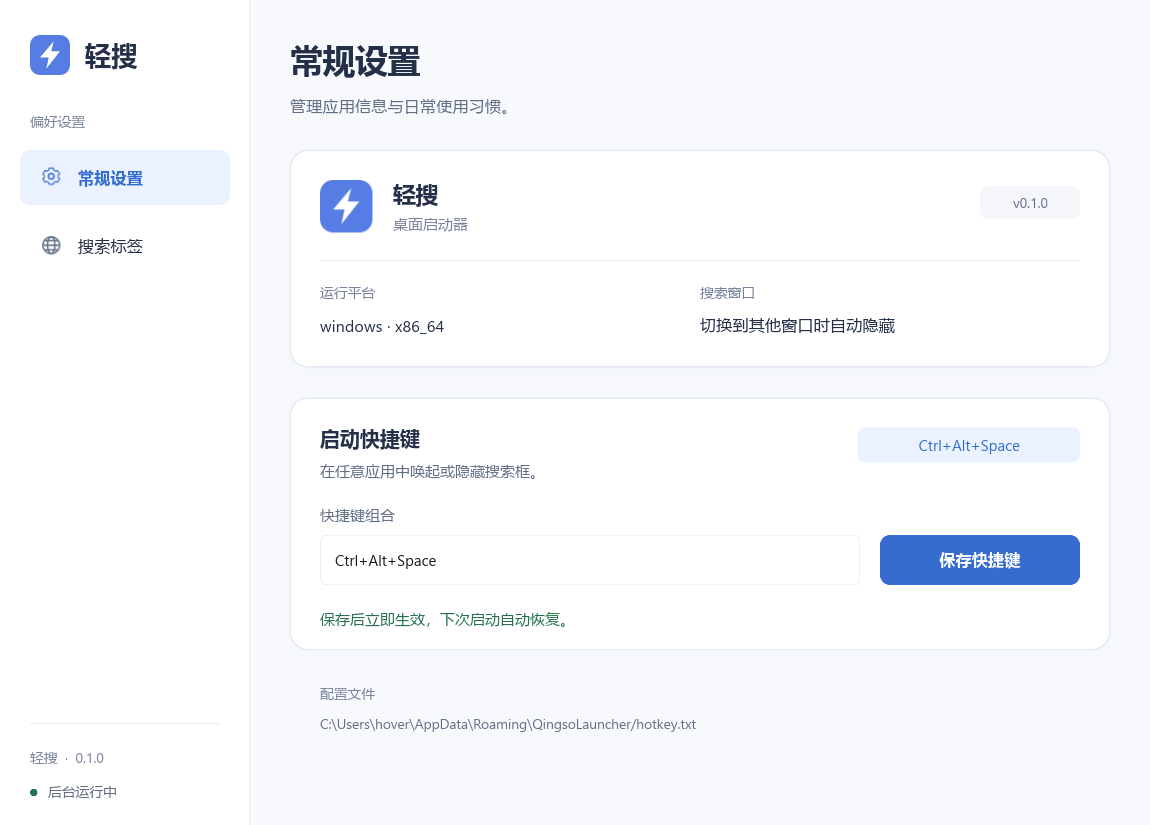
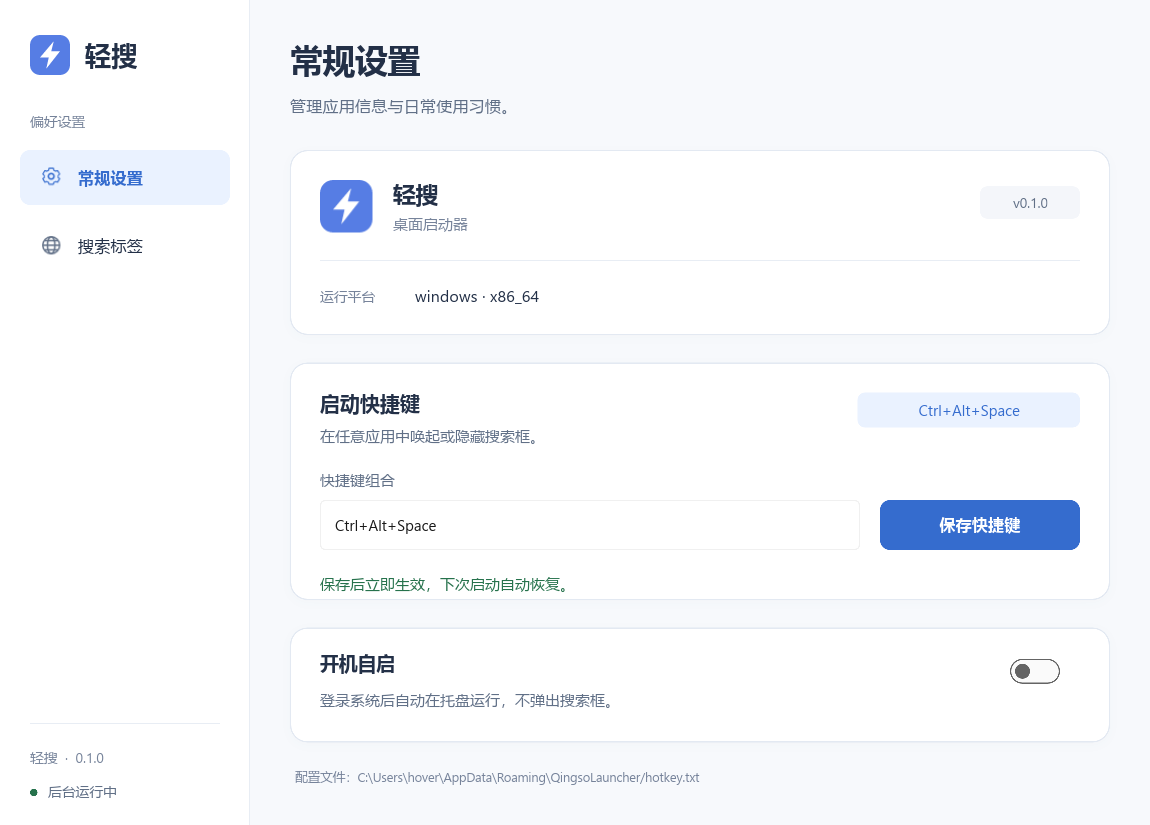
feat: 新增开机自启开关并默认使用软件渲染降低内存占用
- 新增 autostart 模块，Windows 通过 HKCU Run 注册表、macOS 通过 LaunchAgents plist 实现登录自启
- 设置页常规设置新增"开机自启"开关，支持状态读取、启用/禁用及错误恢复
- 主程序识别 --autostart 参数，登录启动时仅创建托盘不显示搜索框，重复登录启动直接退出
- 默认渲染器改为 software，避免初始化 GPU 驱动上下文，私有提交内存从约 210 MiB 降至约 39 MiB
- 支持 QINGSO_RENDERER 环境变量显式选择渲染器，同时尊重 SLINT_BACKEND 原生配置
- 新增开机自启和低内存渲染设计文档，更新 README 使用说明及界面截图

diff --git a/src/autostart.rs b/src/autostart.rs
@@ -1,0 +1,185 @@
+use std::{io, path::Path};
+
+pub fn is_enabled() -> io::Result<bool> {
+    platform::is_enabled()
+}
+pub fn set_enabled(enabled: bool) -> io::Result<()> {
+    platform::set_enabled(enabled, &std::env::current_exe()?)
+}
+
+#[cfg(any(windows, test))]
+fn windows_command(path: &str) -> io::Result<String> {
+    if path.contains(['"', '\0', '\n', '\r']) {
+        return Err(io::Error::other("程序路径包含无效字符"));
+    }
+    let command = format!("\"{path}\" --autostart");
+    if command.encode_utf16().count() > 260 {
+        return Err(io::Error::other("程序路径过长，无法注册登录自启"));
+    }
+    Ok(command)
+}
+
+#[cfg(any(target_os = "macos", test))]
+fn launch_agent(path: &str) -> String {
+    let escaped = path
+        .replace('&', "&amp;")
+        .replace('<', "&lt;")
+        .replace('>', "&gt;")
+        .replace('"', "&quot;")
+        .replace('\'', "&apos;");
+    format!(
+        "<?xml version=\"1.0\" encoding=\"UTF-8\"?>\n<!DOCTYPE plist PUBLIC \"-//Apple//DTD PLIST 1.0//EN\" \"http://www.apple.com/DTDs/PropertyList-1.0.dtd\">\n<plist version=\"1.0\"><dict>\n<key>Label</key><string>net.qingso.launcher</string>\n<key>ProgramArguments</key><array><string>{escaped}</string><string>--autostart</string></array>\n<key>RunAtLoad</key><true/>\n<key>LimitLoadToSessionType</key><string>Aqua</string>\n</dict></plist>\n"
+    )
+}
+
+#[cfg(windows)]
+mod platform {
+    use super::*;
+    use winreg::{
+        RegKey,
+        enums::{HKEY_CURRENT_USER, KEY_READ, KEY_WRITE},
+    };
+    const KEY: &str = r"Software\Microsoft\Windows\CurrentVersion\Run";
+    const VALUE: &str = "QingsoLauncher";
+
+    pub fn is_enabled() -> io::Result<bool> {
+        read(KEY)
+    }
+    pub fn set_enabled(enabled: bool, exe: &Path) -> io::Result<()> {
+        write(KEY, enabled, exe)
+    }
+
+    fn read(path: &str) -> io::Result<bool> {
+        let key = match RegKey::predef(HKEY_CURRENT_USER).open_subkey_with_flags(path, KEY_READ) {
+            Ok(key) => key,
+            Err(error) if error.kind() == io::ErrorKind::NotFound => return Ok(false),
+            Err(error) => return Err(error),
+        };
+        match key.get_value::<String, _>(VALUE) {
+            Ok(command) => Ok(!command.trim().is_empty()),
+            Err(error) if error.kind() == io::ErrorKind::NotFound => Ok(false),
+            Err(error) => Err(error),
+        }
+    }
+
+    fn write(path: &str, enabled: bool, exe: &Path) -> io::Result<()> {
+        let user = RegKey::predef(HKEY_CURRENT_USER);
+        if enabled {
+            let command = windows_command(
+                exe.to_str()
+                    .ok_or_else(|| io::Error::other("程序路径无法编码"))?,
+            )?;
+            let (key, _) = user.create_subkey_with_flags(path, KEY_WRITE)?;
+            key.set_value(VALUE, &command)
+        } else {
+            let key = match user.open_subkey_with_flags(path, KEY_WRITE) {
+                Ok(key) => key,
+                Err(error) if error.kind() == io::ErrorKind::NotFound => return Ok(()),
+                Err(error) => return Err(error),
+            };
+            match key.delete_value(VALUE) {
+                Ok(()) => Ok(()),
+                Err(error) if error.kind() == io::ErrorKind::NotFound => Ok(()),
+                Err(error) => Err(error),
+            }
+        }
+    }
+
+    #[cfg(test)]
+    mod tests {
+        use super::*;
+        #[test]
+        fn isolated_registry_round_trip() {
+            let path = format!(r"Software\QingsoAutostartTest-{}", std::process::id());
+            // Exercise real registry IO without touching the user's Run key.
+            assert!(!read(&path).unwrap());
+            write(
+                &path,
+                true,
+                Path::new(r"C:\Program Files\轻搜\qingso-launcher.exe"),
+            )
+            .unwrap();
+            assert!(read(&path).unwrap());
+            let key = RegKey::predef(HKEY_CURRENT_USER)
+                .open_subkey(&path)
+                .unwrap();
+            assert_eq!(
+                key.get_value::<String, _>(VALUE).unwrap(),
+                "\"C:\\Program Files\\轻搜\\qingso-launcher.exe\" --autostart"
+            );
+            drop(key);
+            write(&path, false, Path::new("unused")).unwrap();
+            assert!(!read(&path).unwrap());
+            write(&path, false, Path::new("unused")).unwrap();
+            RegKey::predef(HKEY_CURRENT_USER)
+                .delete_subkey(&path)
+                .unwrap();
+        }
+    }
+}
+
+#[cfg(target_os = "macos")]
+mod platform {
+    use super::*;
+    fn path() -> io::Result<std::path::PathBuf> {
+        Ok(std::path::PathBuf::from(
+            std::env::var_os("HOME").ok_or_else(|| io::Error::other("HOME is unavailable"))?,
+        )
+        .join("Library/LaunchAgents/net.qingso.launcher.plist"))
+    }
+    pub fn is_enabled() -> io::Result<bool> {
+        match std::fs::metadata(path()?) {
+            Ok(metadata) => Ok(metadata.is_file()),
+            Err(error) if error.kind() == io::ErrorKind::NotFound => Ok(false),
+            Err(error) => Err(error),
+        }
+    }
+    pub fn set_enabled(enabled: bool, exe: &Path) -> io::Result<()> {
+        let path = path()?;
+        if enabled {
+            let data = launch_agent(
+                exe.to_str()
+                    .ok_or_else(|| io::Error::other("程序路径无法编码"))?,
+            );
+            crate::config::write_atomic(&path, data.as_bytes())
+        } else {
+            match std::fs::remove_file(path) {
+                Ok(()) => Ok(()),
+                Err(error) if error.kind() == io::ErrorKind::NotFound => Ok(()),
+                Err(error) => Err(error),
+            }
+        }
+    }
+}
+
+#[cfg(not(any(windows, target_os = "macos")))]
+mod platform {
+    use super::*;
+    pub fn is_enabled() -> io::Result<bool> {
+        Err(io::Error::new(
+            io::ErrorKind::Unsupported,
+            "当前系统暂不支持开机自启",
+        ))
+    }
+    pub fn set_enabled(_: bool, _: &Path) -> io::Result<()> {
+        is_enabled().map(|_| ())
+    }
+}
+
+#[cfg(test)]
+mod tests {
+    use super::*;
+    #[test]
+    fn paths_with_spaces_unicode_and_xml_characters_are_preserved() {
+        assert_eq!(
+            windows_command(r"C:\轻搜 文件夹\qingso.exe").unwrap(),
+            "\"C:\\轻搜 文件夹\\qingso.exe\" --autostart"
+        );
+        assert!(windows_command("bad\"path").is_err());
+        assert!(windows_command(&"x".repeat(261)).is_err());
+        let plist = launch_agent("/Users/test/轻搜 & Tools/launcher");
+        assert!(plist.contains("轻搜 &amp; Tools"));
+        assert!(plist.contains("<string>--autostart</string>"));
+        assert!(plist.contains("<key>RunAtLoad</key><true/>"));
+    }
+}

diff --git a/src/settings.rs b/src/settings.rs
@@ -17,6 +17,39 @@ pub fn create(
     settings.set_config_path(config::path()?.to_string_lossy().into_owned().into());
     settings.set_current_hotkey(registration.borrow().shortcut.clone().into());
     settings.set_edited_hotkey(registration.borrow().shortcut.clone().into());
+    match crate::autostart::is_enabled() {
+        Ok(enabled) => settings.set_autostart_enabled(enabled),
+        Err(error) => {
+            settings.set_autostart_available(false);
+            settings.set_autostart_status(format!("无法读取自启状态：{error}").into());
+            settings.set_autostart_error(true);
+        }
+    }
+    let weak = settings.as_weak();
+    settings.on_set_autostart(move |enabled| {
+        let Some(settings) = weak.upgrade() else {
+            return;
+        };
+        match crate::autostart::set_enabled(enabled) {
+            Ok(()) => {
+                settings.set_autostart_enabled(enabled);
+                settings.set_autostart_error(false);
+                settings.set_autostart_status(
+                    if enabled {
+                        "已开启，下次登录系统后在托盘运行。"
+                    } else {
+                        "已关闭开机自启。"
+                    }
+                    .into(),
+                );
+            }
+            Err(error) => {
+                settings.set_autostart_enabled(crate::autostart::is_enabled().unwrap_or(!enabled));
+                settings.set_autostart_error(true);
+                settings.set_autostart_status(format!("设置失败：{error}").into());
+            }
+        }
+    });
     let weak_settings = settings.as_weak();
     let weak_search = ui.as_weak();
     settings.on_save_shortcut(move |value| {

diff --git a/src/launcher.rs b/src/launcher.rs
@@ -10,7 +10,7 @@ thread_local! {
 }
 
 pub fn configure_backend() -> Result<(), slint::PlatformError> {
-    let backend = slint::BackendSelector::new()
+    let mut backend = slint::BackendSelector::new()
         .backend_name("winit".into())
         .with_winit_window_attributes_hook(|attributes| {
             let attributes = attributes.with_theme(Some(winit::window::Theme::Light));
@@ -24,6 +24,13 @@ pub fn configure_backend() -> Result<(), slint::PlatformError> {
                 attributes
             }
         });
+    // This launcher is mostly static UI: software avoids initializing GPU
+    // driver contexts. Retain an explicit GPU override for animated workloads.
+    if let Ok(renderer) = std::env::var("QINGSO_RENDERER") {
+        backend = backend.renderer_name(renderer);
+    } else if std::env::var_os("SLINT_BACKEND").is_none() {
+        backend = backend.renderer_name("software".into());
+    }
     #[cfg(target_os = "macos")]
     let backend = {
         use winit::platform::macos::{ActivationPolicy, EventLoopBuilderExtMacOS};

diff --git a/src/main.rs b/src/main.rs
@@ -4,6 +4,7 @@
 use std::error::Error;
 use std::{cell::RefCell, rc::Rc};
 
+mod autostart;
 mod config;
 mod hotkeys;
 mod instance;
@@ -30,7 +31,8 @@ fn main() {
 }
 
 fn run() -> Result<(), Box<dyn Error>> {
-    let Some(instance) = instance::acquire()? else {
+    let login_start = std::env::args().skip(1).any(|arg| arg == "--autostart");
+    let Some(instance) = instance::acquire(!login_start)? else {
         return Ok(());
     };
     launcher::configure_backend()?;
@@ -44,7 +46,9 @@ fn run() -> Result<(), Box<dyn Error>> {
     let tray = LauncherTray::new()?;
     settings::bind_tray(&tray, &ui, &preferences);
     instance.listen(ui.as_weak())?;
-    launcher::show(&ui)?;
+    if !login_start {
+        launcher::show(&ui)?;
+    }
     slint::run_event_loop_until_quit()?;
 
     Ok(())

diff --git a/src/instance.rs b/src/instance.rs
@@ -32,7 +32,7 @@ fn socket_name() -> io::Result<Name<'static>> {
 }
 
 /// None means an existing instance was successfully told to show its window.
-pub fn acquire() -> Result<Option<Instance>, Box<dyn Error>> {
+pub fn acquire(show_existing: bool) -> Result<Option<Instance>, Box<dyn Error>> {
     #[cfg(windows)]
     let lock_name = APP_ID.to_string();
     #[cfg(not(windows))]
@@ -42,7 +42,9 @@ pub fn acquire() -> Result<Option<Instance>, Box<dyn Error>> {
         .into_owned();
     let lock = SingleInstance::new(&lock_name)?;
     if !lock.is_single() {
-        activate_existing()?;
+        if show_existing {
+            activate_existing()?;
+        }
         return Ok(None);
     }
     #[cfg(not(windows))]

diff --git a/examples/settings-check.rs b/examples/settings-check.rs
@@ -6,6 +6,9 @@ use std::{
     rc::Rc,
     time::Duration,
 };
+#[path = "../src/autostart.rs"]
+#[allow(dead_code)]
+mod autostart;
 #[path = "../src/config.rs"]
 mod config;
 #[path = "../src/hotkeys.rs"]

diff --git a/README.md b/README.md
@@ -23,6 +23,7 @@ Windows 和 macOS 使用同一套 Slint 界面。Windows 使用 Segoe UI 和 Alt
 - 系统托盘提供“打开搜索框”“打开设置”“退出”；点击托盘图标可直接打开搜索框。
 - 设置是独立窗口，显示软件名称、版本、运行平台、当前快捷键和配置文件位置。关闭设置窗口不会退出后台程序。
 - 设置页使用浅色侧边栏导航、信息卡片、固定字段标题和统一圆角操作按钮；内容宽度会随窗口宽度调整。
+- 常规设置新增“开机自启”开关，默认关闭。开启后从下次登录系统起自动运行到托盘，不显示搜索框；关闭会删除轻搜自己的登录启动项。
 - 在设置页输入快捷键组合并点击“保存快捷键”，立即更新注册并保存。无效格式、被占用或保存失败会显示错误，原快捷键继续有效。
 - 程序只运行一个实例。重复执行 `cargo run` 或双击程序会唤回已有窗口，新进程正常退出，不会再次争用全局快捷键。
 - 默认全局快捷键为 `Alt+Space`；如果已被其他软件注册，自动尝试 `Ctrl+Alt+Space`。窗口底部显示实际快捷键。
@@ -57,6 +58,25 @@ cargo build --release
 发布配置使用 `opt-level = "s"`、`strip = "symbols"`、LTO 和单代码生成单元优化体积，保留现有 Slint 渲染器、托盘和无障碍功能。分发时仅包含发布版程序及必要说明文件，避免打包整个 Cargo target 目录。当前环境的构建目录由全局 Cargo 设置指向 `E:/rust/cargo-target`。
 
 本次 Windows x64 实测：发布程序从 13.41 MiB 降至 11.05 MiB（约减少 18%）；`dist/qingso-launcher-windows-x64-v0.1.0.zip` 为 5.40 MiB，包含程序及使用说明。升级前请从托盘退出旧版，再启动新的轻搜。
+
+## 开机自启
+
+在“设置 → 常规设置 → 开机自启”切换开关，立即保存到当前用户的系统登录启动项。Windows 使用 HKCU Run 的 `QingsoLauncher` 值，macOS 使用 `~/Library/LaunchAgents/net.qingso.launcher.plist`；应用使用 `--autostart` 参数区分登录启动和手动启动。重复自启不会唤回已经运行的搜索框。
+
+自启项记录当前可执行文件的完整路径。移动程序后，请重新关闭并开启一次自启，更新路径。设置失败会显示原因并恢复开关状态。测试使用隔离的注册表测试键，不会自动为当前用户启用此选项。macOS 实际登录启动尚需实机验证。
+
+## 内存与渲染
+
+默认选择 Slint 软件渲染，避免为简单启动器初始化 GPU 驱动上下文。本机同一发布程序启动 3 秒后的对照测量：FemtoVG 工作集 267.69 MiB、私有提交内存 210.75 MiB；软件渲染工作集 72.46 MiB、私有提交内存 38.95 MiB。不同机器、窗口状态和使用时间会改变这些数字，工作集与私有提交内存也不是同一口径。
+
+GPU 渲染仍可显式启用，适合未来更复杂的动画界面：
+
+```powershell
+$env:QINGSO_RENDERER = 'femtovg'
+cargo run --release
+```
+
+也尊重 Slint 原生 `SLINT_BACKEND` 渲染配置，例如 `winit-software` 和 `winit-femtovg`；`QINGSO_RENDERER` 优先。当前没有移除 GPU 后端和无障碍功能。
 
 ## 搜索标签
 

diff --git a/docs/superpowers/specs/2026-10-12-low-memory-rendering-design.md b/docs/superpowers/specs/2026-10-12-low-memory-rendering-design.md
@@ -1,0 +1,16 @@
+# 低内存渲染
+
+用户反馈轻搜内存约 150～200 MB，要求判断技术限制并降低占用。运行中的发布版测到工作集 274.31 MiB、私有提交内存 207.61 MiB。当前代码采用默认 Winit / FemtoVG 渲染，并在启动时创建设置组件。
+
+对同一个发布二进制执行两次独立冷启动，分别通过 SLINT_BACKEND=winit-femtovg 和 winit-software 选择渲染器，每次启动 3 秒后测量：
+
+| 模式 | 工作集 MiB | 私有提交 MiB | 累计 CPU 秒 |
+| --- | ---: | ---: | ---: |
+| FemtoVG | 267.69 | 210.75 | 1.08 |
+| 软件渲染 | 72.46 | 38.95 | 0.23 |
+
+私有提交内存减少约 81.52%，主要差异由渲染路径引起。这些是本机同场景测量，不能作为其他机器或长时间使用后的固定上限。Windows 工作集包含共享和私有物理页面，私有提交内存与任务管理器某些内存列存在口径差异。
+
+默认渲染器改为 software，保留已编译的 GPU 渲染器。QINGSO_RENDERER 可显式选择 femtovg 或 software，也尊重已有 SLINT_BACKEND 参数。没有使用工作集强制裁剪来改变任务管理器显示值，没有删减托盘、快捷键或无障碍功能。
+
+验证包括软件渲染的搜索框和弹窗截图、原生键盘及隐藏 / 显示交互检查、设置和快捷键检查、搜索与弹窗检查、严格 Clippy 检查。macOS 仍需实机验证。

diff --git a/docs/superpowers/specs/2026-10-12-autostart-design.md b/docs/superpowers/specs/2026-10-12-autostart-design.md
@@ -1,0 +1,9 @@
+# 登录自启开关
+
+用户要求新增开机是否自启。在常规设置添加默认关闭的开关，读取当前用户系统登录启动项作为状态来源。启用时记录当前程序路径和 --autostart 参数，关闭仅删除轻搜自己的启动项。操作失败显示错误并恢复状态。
+
+Windows 通过 winreg 写入 HKCU\Software\Microsoft\Windows\CurrentVersion\Run 的 QingsoLauncher 值，路径用引号包围，支持空格和中文。macOS 写入当前用户 Library/LaunchAgents/net.qingso.launcher.plist，ProgramArguments 指定程序路径和 --autostart，RunAtLoad 为 true，GUI 会话限制为 Aqua。macOS 代码尚未实机验证。
+
+主程序检查 --autostart，登录启动时创建托盘并保留后台事件循环，不显示搜索框。单实例入口接受是否唤回的参数，重复登录启动直接正常退出，不发送显示消息；手动重复启动维持唤回行为。
+
+五项单元测试通过，其中自启新增测试使用隔离的 HKCU 注册表测试键验证读写及删除，并验证引号路径、超长路径和 plist XML 转义。未修改当前用户真实 Run 项。后台启动及重复后台启动经实际可见窗口检查通过；Winit 的 14×14 内部事件窗口不计为应用窗口。设置 / 托盘 / 快捷键检查和严格 Clippy 检查通过。
